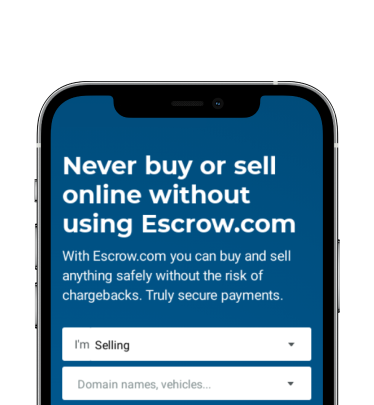
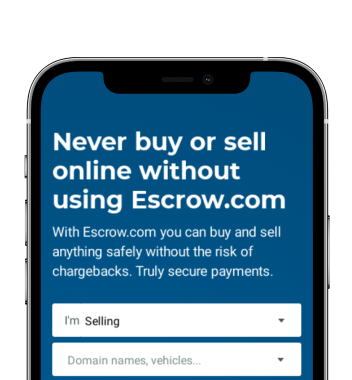
finish spotlight section mobile

diff --git a/style.css b/style.css
@@ -111,6 +111,79 @@
     }
 
 
+    /* *****SPOTLIGHT***** */
+
+    .spotlight {
+        flex-direction: column;
+        padding: 50px 20px 10px 20px;
+        
+    }
+
+
+    .compLogo {
+        width: 100%;
+        display: flex;
+        justify-content: space-between;
+    }
+
+    .compLogo img {
+        width: 100px;
+        height: auto;
+    }
+
+    .pinterest,
+    .twitter,
+    .reddit,
+    .google,
+    .slack {
+        display: none;
+    }
+
+    .mobHighlight {
+        flex-direction: column;
+        align-items: center;
+        justify-content: center;
+    }
+
+    .mobHighlight .highlightLeft {
+        padding: 30px 30px 0 30px;
+        margin-bottom: 0;
+    }
+
+
+    .phoneMock {
+        display: none;
+    }
+
+    .phoneMockMob {
+        transform: translateY(3px);
+    }
+
+    
+
+
+    .phoneMockTab {
+        display: none;
+    }
+
+    .demoHighlight {
+        flex-direction: column-reverse;
+    }
+
+
+    .textEd {
+        width: 100%;
+        margin: 0;
+    }
+
+    .demoBigText {
+        padding: 30px 0 10px 0; 
+    }
+
+    .demoRight {
+        padding-bottom: 30px;
+    }
+
 }
 
 @media (min-width: 481px) and (max-width: 1024px) {
@@ -137,6 +210,22 @@
     .headImgDesk {
         display: none;
     }
+
+
+
+    /* *****SPOTLIGHT****** */
+
+    .phoneMock {
+        display: none;
+    }
+
+    .phoneMockMob {
+        display: none;
+    }
+
+    .phoneMockTab {
+        width: 100%;
+    }
 }
 
 @media (min-width: 1025px) {
@@ -159,6 +248,20 @@
     .headImgDesk {
         width: 100%;
     }
+
+    /* *****SPOTLIGHT***** */
+
+    .phoneMock {
+        width: 100%;
+    }
+
+    .phoneMockMob {
+        display: none;
+    }
+
+    .phoneMockTab {
+        display: none;
+    }
     
 }
 
@@ -167,7 +270,6 @@
 .flexContainer {
     display: flex;
     flex-direction: column;
-    border: 5px solid red;
     height: fit-content;
     font-family: 'Cabin', sans-serif;
 }
@@ -188,7 +290,7 @@
 .header {
     display: flex;
     flex-direction: column;
-    background-color: rgb(247, 242, 236);
+    background-color: rgb(235, 225, 215);
 }
 
 .logo {
@@ -222,12 +324,70 @@
 /* ***** SPOTLIGHT ***** */
 
 .spotlight {
-    border: 5px solid yellow;
+    display: flex;
+    background-color: #fff;
+    justify-content: center;
+    align-items: center;
+}
+
+.mobHighlight {
+    height: fit-content;
+    border-radius: 10px;
+    background-color: rgb(235, 225, 215);
+    
+    margin-top: 50px;
+    display: flex;
+}
+
+.hlBigText {
+    font-size: 36px;
+    font-weight: 600;
+    padding-bottom: 20px;
+    color: #1a1a1a;
+}
+
+.hlSmallText {
+    color: #545454;
+    font-size: 18px;
+    line-height: 1.5;
+    padding-bottom: 20px;
+}
+
+
+.escrowLink a {
+    color: #545454;
+    font-weight: 600;
+    font-size: 18px;
+}
+
+.demoHighlight {
+    display: flex;
+}
+
+.demoBigText {
+    font-size: 32px;
+    font-weight: 800;
+    color: #1a1a1a;
+}
+
+.demoSmallText {
+    font-size: 18px;
+    color: #545454;
+    line-height: 1.5;
+    padding-bottom: 20px;
+}
+
+.editorLink a {
+    color: #545454;
+    font-weight: 600;
+    font-size: 18px;
 }
 
 /* ***** FOOTER ***** */
 
 .footer {
-    border: 5px solid purple;
+    background-color: #1a1a1a;
+    color: #fff;
+    height: 100px;
 }
 

diff --git a/index.html b/index.html
@@ -85,15 +85,37 @@
                 <img class="youtube" src="Assets\Youtube Logo.png">
                 <img class="pinterest" src="Assets\Pinterest Logo.png">
                 <img class="twitter" src="Assets\Twitter Logo.png">
+                <img class="reddit" src="Assets\Reddit Logo.png">
+                <img class="google" src="Assets\Google Logo.png">
+                <img class="slack" src="Assets\Slack Logo.png">
             </div>
             <div class="mobHighlight">
-
+                <div class="highlightLeft">
+                    <div class="hlBigText">Secure your money with Escrow.</div>
+                    <div class="hlSmallText">Spence uses Escrow to secure all payments. We believe Escrow offers the highest level of security for your payments, so you never need to worry about scams.</div>
+                    <div class="escrowLink"><a href="#">Learn more about Escrow &rarr;</a></div>
+                </div>
+                <div class="highlightRight">
+                    <img class="phoneMock" src="Assets\Phone Mockup (Desktop).png">
+                    <img class="phoneMockMob" src="Assets\Phone Mockup (Mobile).png">
+                    <img class="phoneMockTab" src="Assets\Phone Mockup (Tablet).png">
+                </div>
             </div>
-            <div class="demoHighlight"></div>
+            
+            <div class="demoHighlight">
+                <div class="demoLeft">
+                    <img class="textEd" src="Assets\Text Editor.png">
+                </div>
+                <div class="demoRight">
+                    <div class="demoBigText">A text editor like no other.</div>
+                    <div class="demoSmallText">Our text editor pulls you into focus mode with it's simplistic design and usability so you can put out your best writings.</div>
+                    <div class="editorLink"><a href="#">Text Editor Live Demo &rarr;</a></div>
+                </div>
+            </div>
 
         </div>
         <div class="footer">
-
+            
         </div>
     </div>
 </body>
